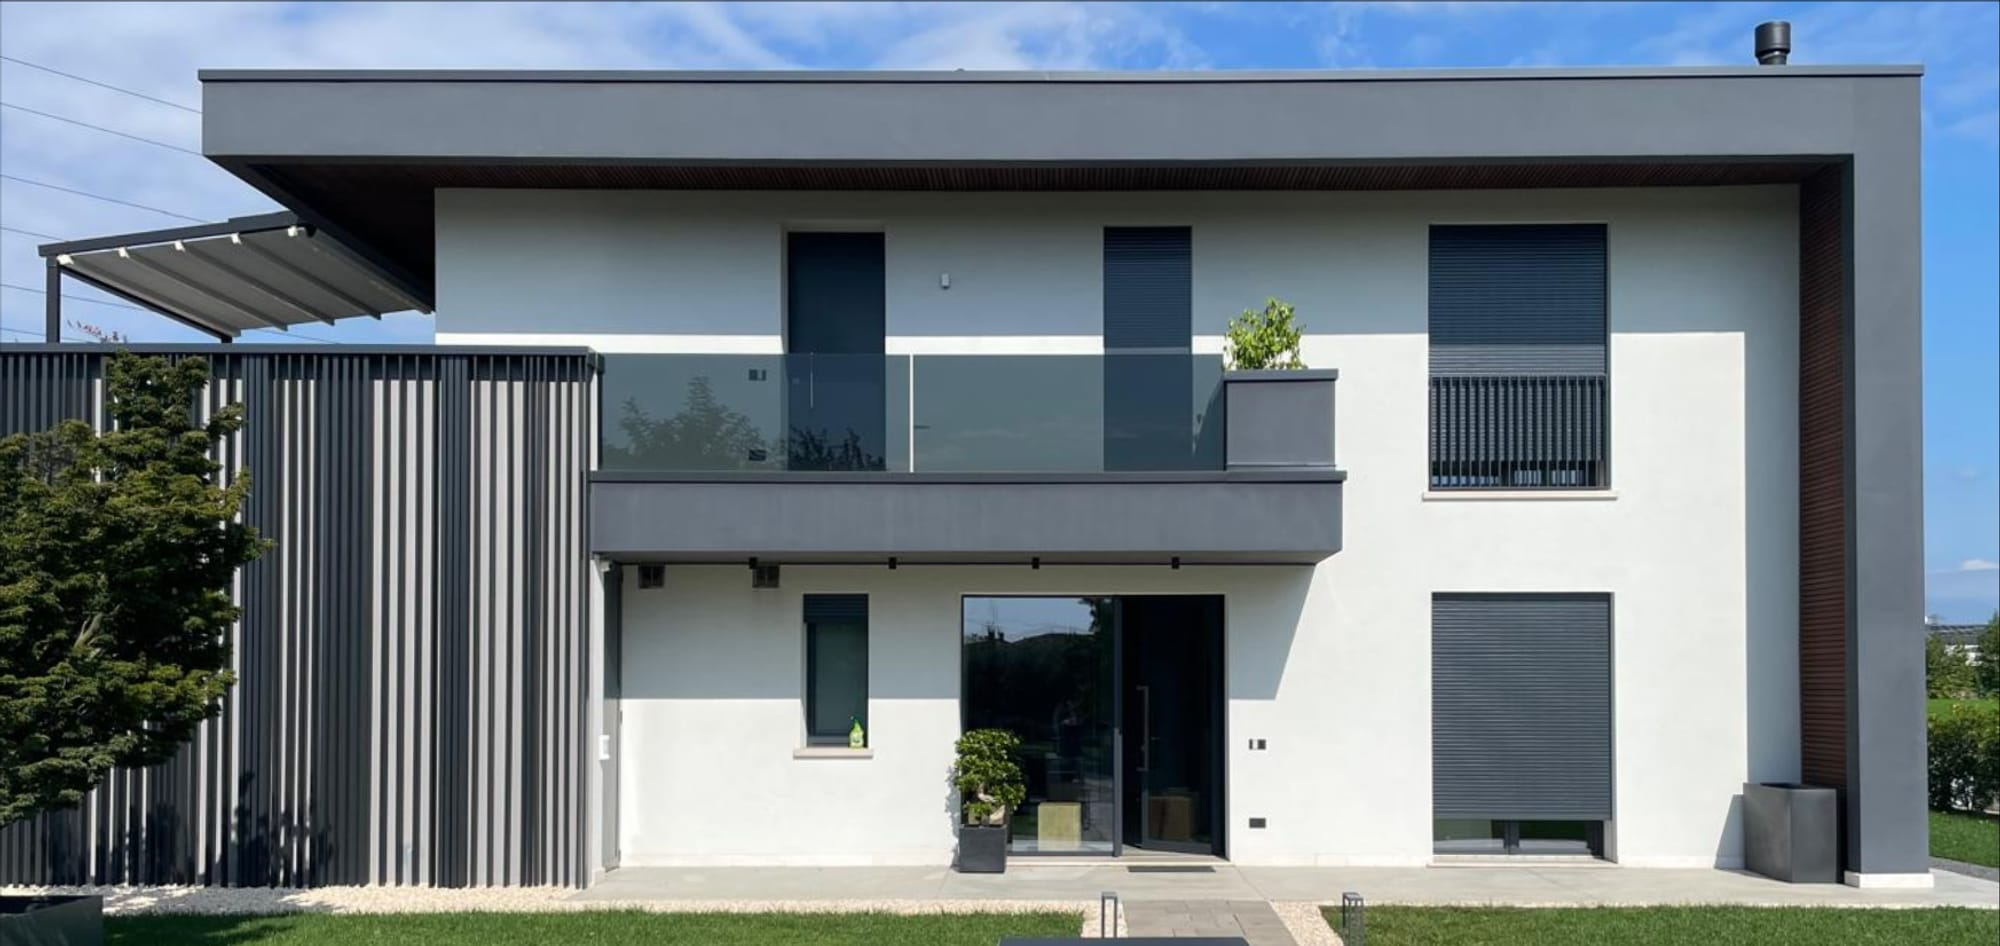
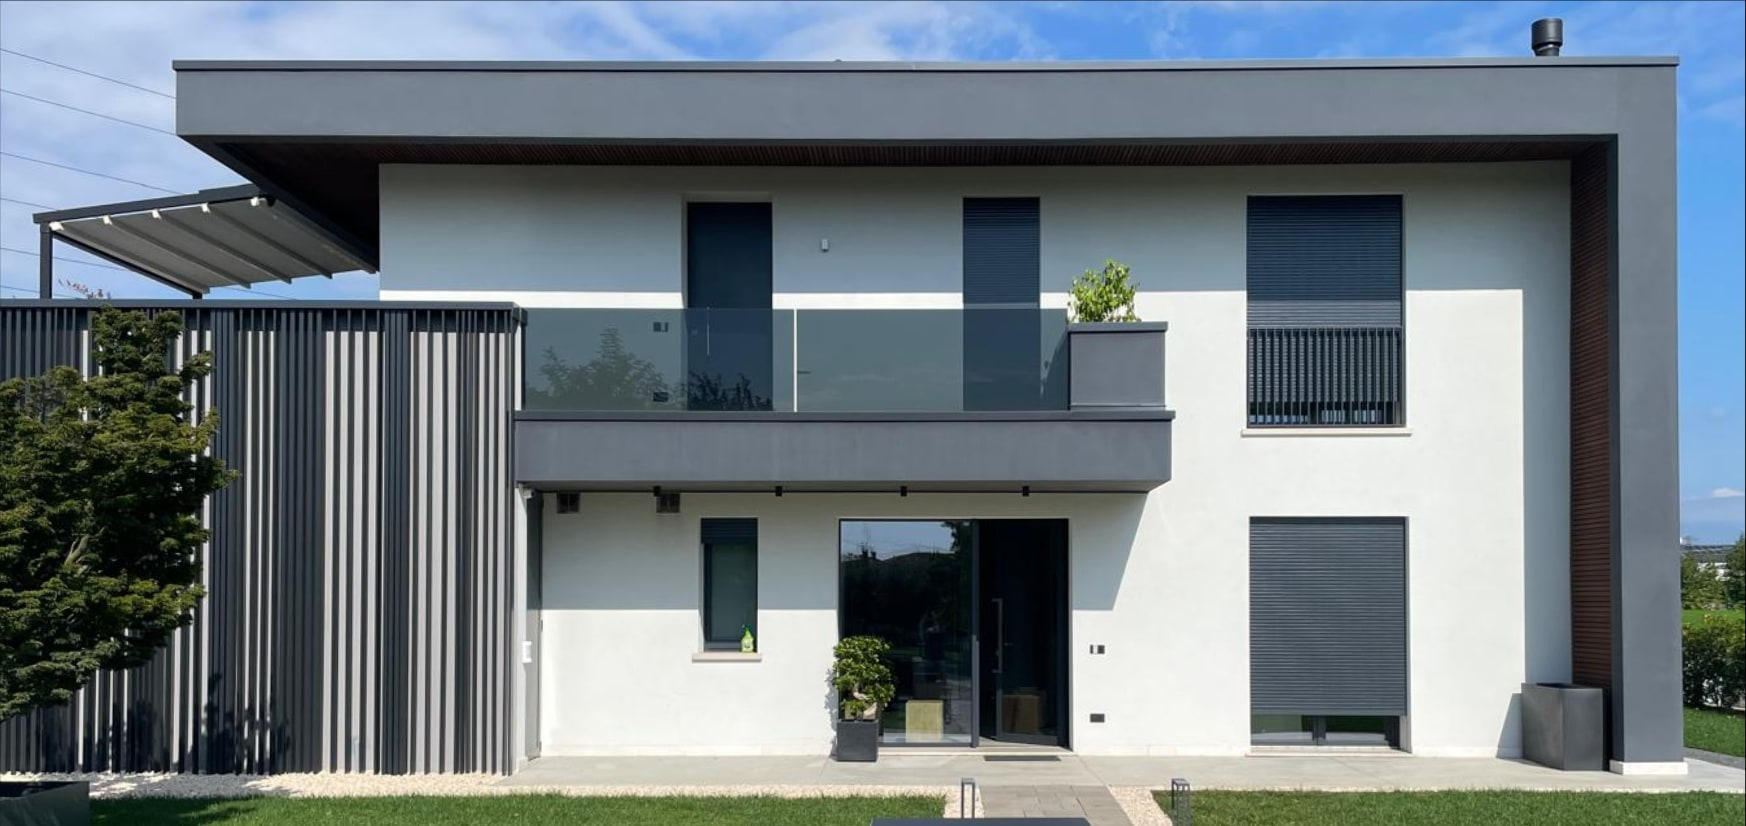
style: Team con foto nitida a tutta larghezza; ordine Studio, Team, Lavori, Contatti

diff --git a/src/styles/global.css b/src/styles/global.css
@@ -436,11 +436,11 @@ a { color: var(--color-text); text-decoration-color: var(--os-pencil); text-unde
 .os-lightbox__close:hover, .os-lightbox__nav:hover { color: #f0a59f; }
 
 /* Team e numeri */
-.os-numeri { overflow: hidden; }
-.os-numeri__inner { display: grid; gap: 3rem; align-items: stretch; }
-/* Foto grande: su mobile a tutta larghezza, su desktop esce fino al bordo destro della finestra */
-.os-numeri__media { margin: 0 calc(-1 * var(--space)); position: relative; }
-.os-numeri__media img { width: 100%; height: 100%; aspect-ratio: 4 / 3; object-fit: cover; object-position: 50% 60%; }
+.os-numeri { border-top: 1px solid var(--os-hair); }
+.os-numeri__inner { display: grid; gap: 2.5rem; align-items: end; }
+.os-numeri .os-stats { margin: 0; }
+.os-numeri__media { margin: clamp(2.5rem, 5vw, 4rem) 0 0; position: relative; }
+.os-numeri__media img { width: 100%; height: auto; }
 .os-numeri__media::after { /* angolo da tavola tecnica */
   content: ""; position: absolute; left: 14px; top: 14px; width: 34px; height: 34px;
   border-left: 1.5px solid var(--os-pencil); border-top: 1.5px solid var(--os-pencil); pointer-events: none; }
@@ -448,13 +448,8 @@ a { color: var(--color-text); text-decoration-color: var(--os-pencil); text-unde
 .os-stat { display: flex; flex-direction: column-reverse; justify-content: flex-end; gap: .5rem; }
 .os-stat__value { margin: 0; display: flex; flex-direction: column-reverse; gap: .5rem; font-family: var(--font-display); font-weight: 600; font-size: clamp(2.2rem, 4.5vw, 3.2rem); line-height: 1; letter-spacing: -.02em; }
 .os-stat__label { font-family: var(--font-display); font-size: .74rem; letter-spacing: .18em; text-transform: uppercase; color: var(--color-secondary); }
-@media (min-width: 960px) {
-  .os-numeri { padding-block: 0; }
-  .os-numeri__inner { grid-template-columns: .95fr 1.05fr; gap: 5rem; }
-  .os-numeri__text { padding-block: clamp(4rem, 7vw, 6.5rem); }
-  .os-numeri__media { margin: 0 calc((min(100vw, var(--maxw)) - 100vw) / 2 - var(--space)) 0 0; min-height: 560px; }
-  .os-numeri__media img { position: absolute; inset: 0; aspect-ratio: auto; }
-}
+@media (min-width: 960px) { .os-numeri__inner { grid-template-columns: 1.1fr .9fr; gap: 5rem; } }
+@media (max-width: 600px) { .os-numeri__media { margin-inline: calc(-1 * var(--space)); } .os-numeri__media::after { display: none; } }
 
 /* Contatti */
 .os-contatti { background: var(--color-text); color: #fff; }

diff --git a/00_PROTOCOL/STATE.md b/00_PROTOCOL/STATE.md
@@ -28,7 +28,7 @@ pubblicato su Cloudflare Workers con file statici. Tipo di lavoro: Tipo 2 — re
 
 ## Current working features
 
-- Sito a pagina unica costruito (Tipo 2, direzione "Tavola tecnica" approvata): hero con slider di foto vere, Lo studio + 8 servizi, Lavori (5 interventi, 26 foto, galleria con lightbox), Team + numeri con linee di quota, Contatti con modulo (Worker → info@orlandiscapin.it; nelle anteprime solo prova).
+- Sito a pagina unica costruito (Tipo 2, direzione "Tavola tecnica" approvata): hero con slider di foto vere, Lo studio + 8 servizi, Team + numeri con linee di quota e foto larga, Lavori (5 interventi, 26 foto, galleria con lightbox), Contatti con modulo (Worker → info@orlandiscapin.it; nelle anteprime solo prova).
 - Blocchi su misura `os-*` in `src/components/blocks/os/` e nello schema; menu ad ancore e `footerLogo` in settings. Stile in fondo a `src/styles/global.css`, script slider/lightbox in fondo a `src/scripts/site.js`.
 - Font self-hosted (@fontsource Archivo + Inter). Favicon e og-image generati dal logo (`npm run assets -- logo-icona.png lavori/lavoro-02-01.jpg`).
 - Anteprima: https://staging-orlandiscapin.adabu.workers.dev (deploy da GitHub Actions su push a `staging`).

diff --git a/00_PROTOCOL/DECISIONS.md b/00_PROTOCOL/DECISIONS.md
@@ -17,3 +17,4 @@ Formato: data · decisione · perché · Status (accepted | inferred | supersede
 - 2026-11-11 · Sezione "Lavori" aggiunta alla pagina unica, titoli neutri per tipo di intervento · proposta in DESIGN.md approvata · Status: accepted
 - 2026-11-11 · Hero a due colonne con foto verticali (le foto sono quasi tutte 4:5) invece di foto a tutto schermo · resa migliore senza ingrandire immagini da 1080px · Status: inferred
 - 2026-11-11 · Editor mockup nelle anteprime: `editor.js` a token (stessa versione di Orostyle) con i colori del sito in fondo a `global.css` (barra inchiostro, rosso matita per selezione e guide); si accende con il secret `EDITOR_PASSWORD` · richiesta di Federico ("Aggiungi anche l'editor") · Status: accepted
+- 2026-11-11 · Ordine delle sezioni: Studio, Team, Lavori, Contatti (anche nel menu); foto del Team larga in proporzione originale, senza ingrandimenti (la foto è 1746px) · richiesta di Federico ("mega sgranata, non deve esserlo") · Status: accepted
